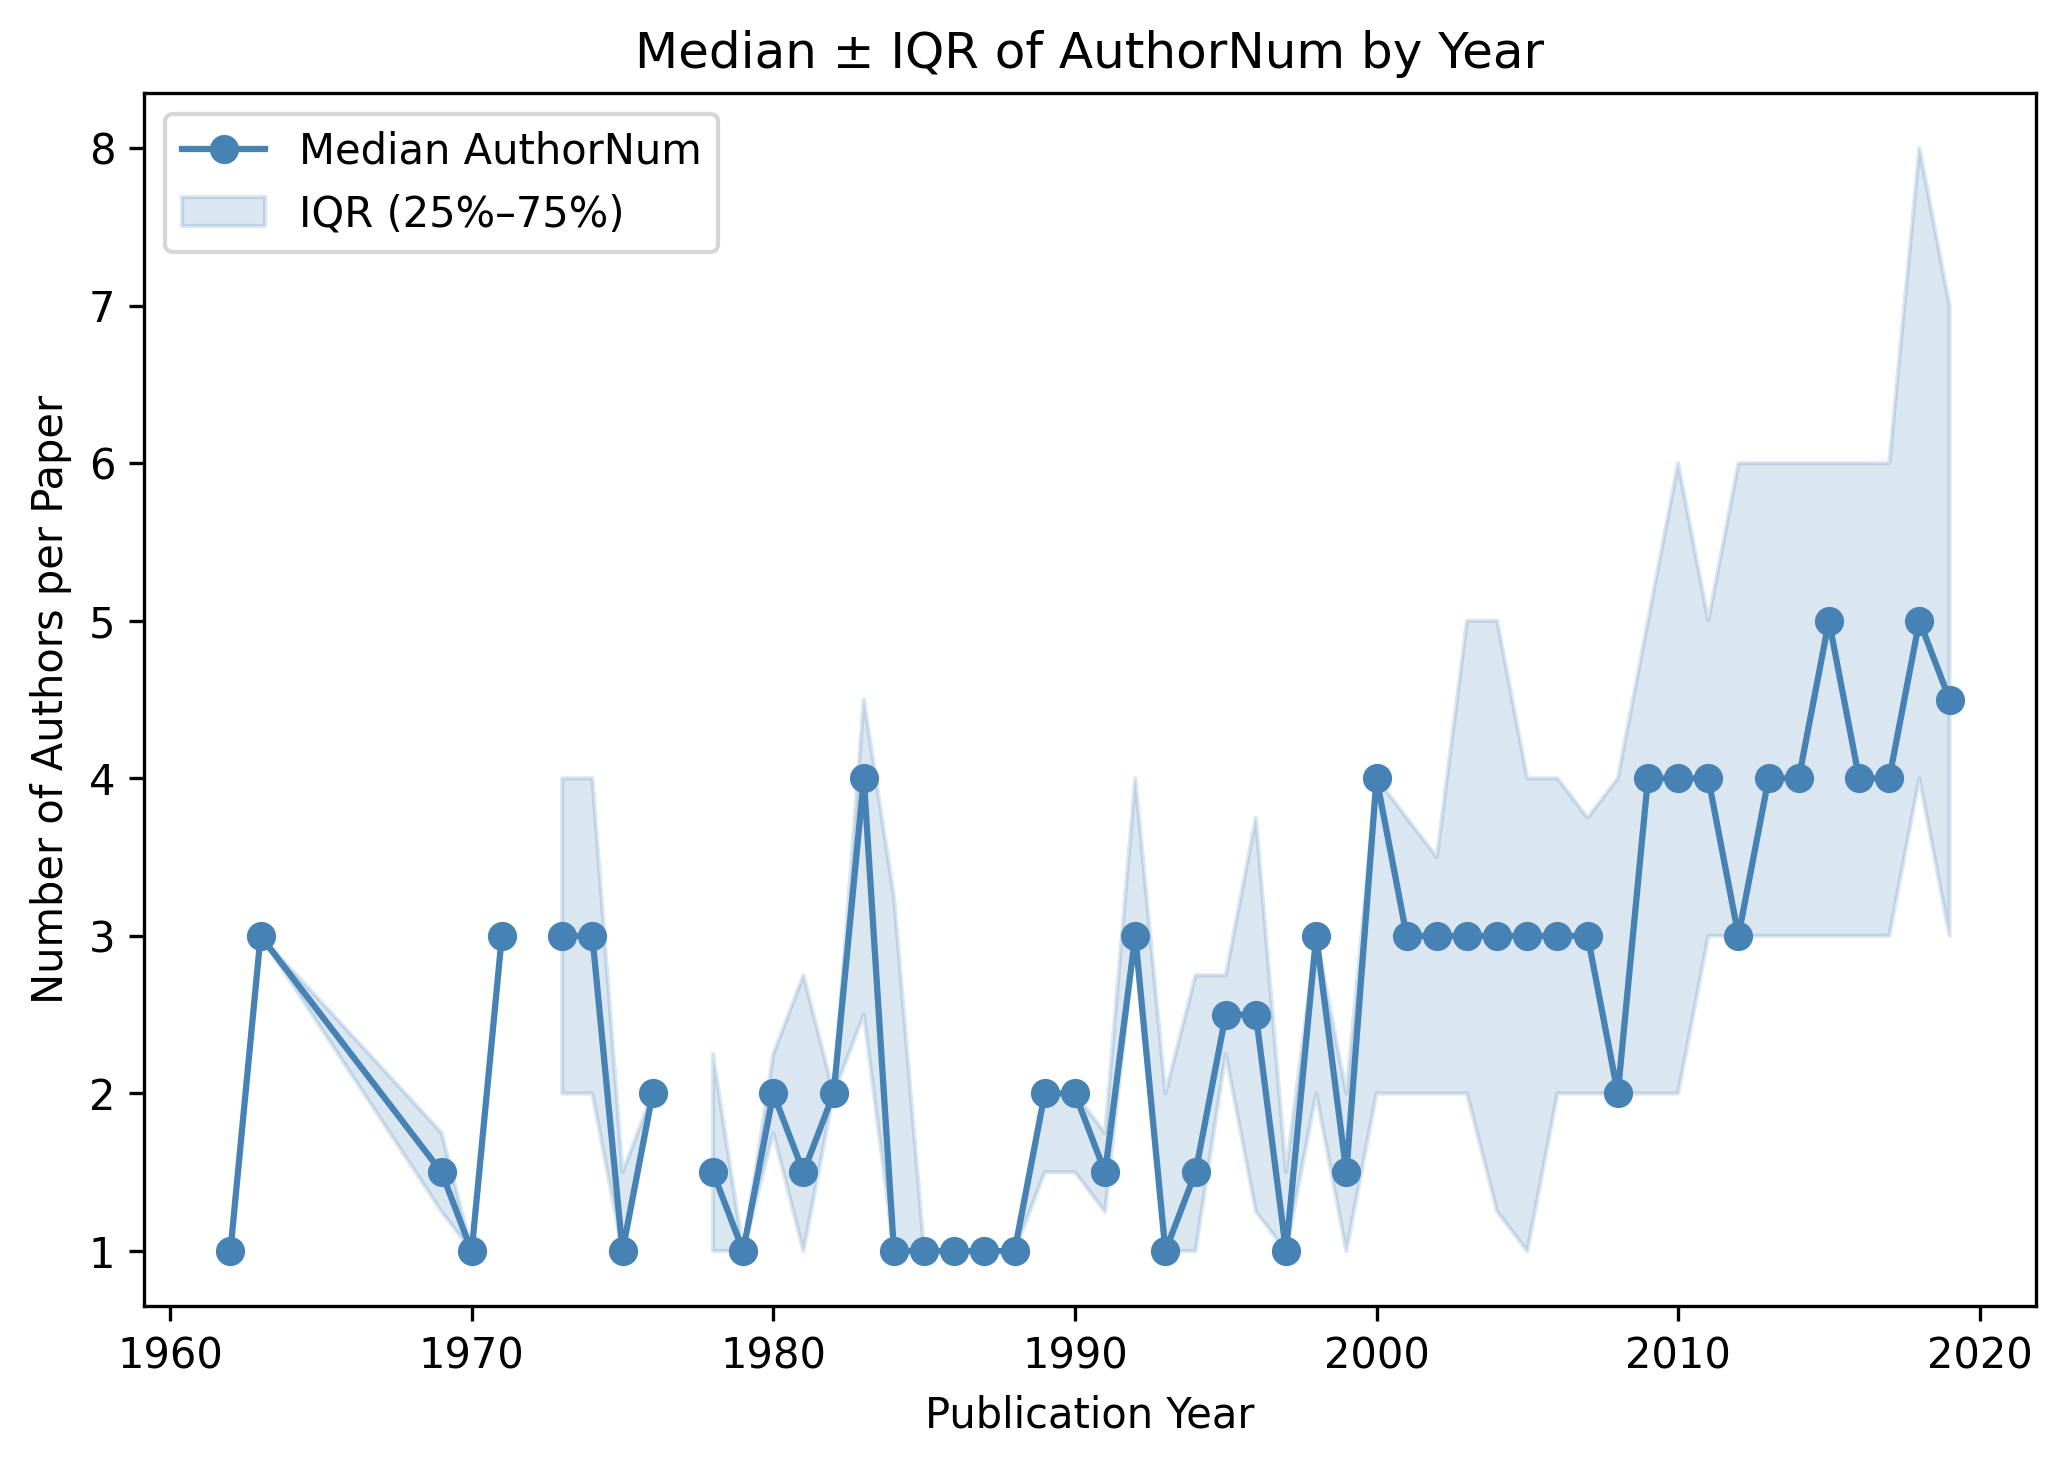
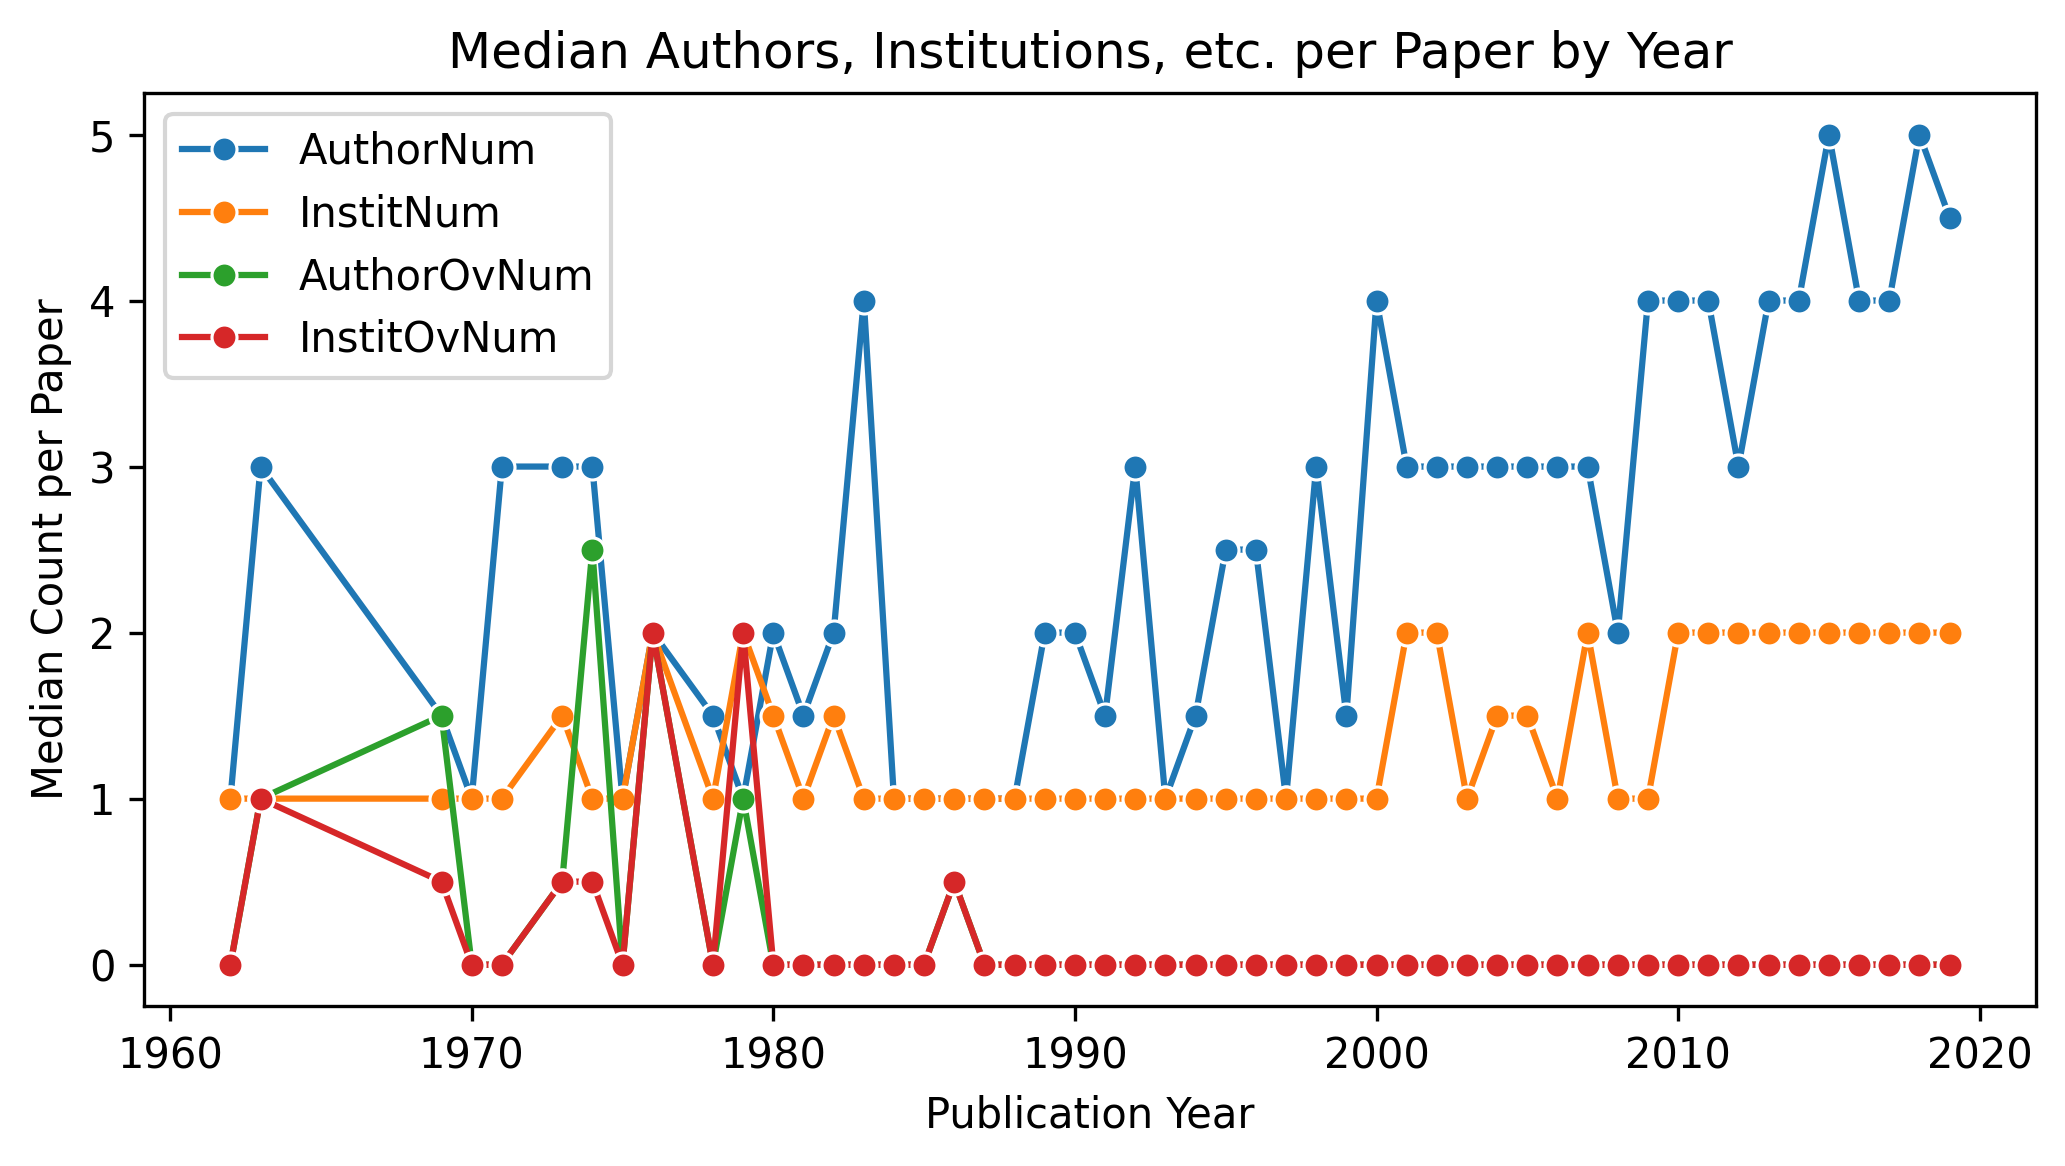
mean count authorsss

diff --git a/app.py b/app.py
@@ -240,15 +240,15 @@ plt.tight_layout()
 st.pyplot(fig2)
 
 
-df_line = df.groupby('IDyear')[['AuthorNum', 'InstitNum', 'AuthorOvNum', 'InstitOvNum']].median().reset_index()
+df_line = df.groupby('IDyear')[['AuthorNum', 'InstitNum', 'AuthorOvNum', 'InstitOvNum']].mean().reset_index()
 
 fig3, ax3 = plt.subplots(figsize=(7,4))
 for col in ['AuthorNum', 'InstitNum', 'AuthorOvNum', 'InstitOvNum']:
     sns.lineplot(data=df_line, x='IDyear', y=col, marker='o', label=col, ax=ax3)
 
-ax3.set_title("Median Authors, Institutions, etc. per Paper by Year")
+ax3.set_title("Mean Authors, Institutions, etc. per Paper by Year")
 ax3.set_xlabel("Publication Year")
-ax3.set_ylabel("Median Count per Paper")
+ax3.set_ylabel("Mean Count per Paper")
 ax3.legend()
 plt.tight_layout()
 st.pyplot(fig3)
